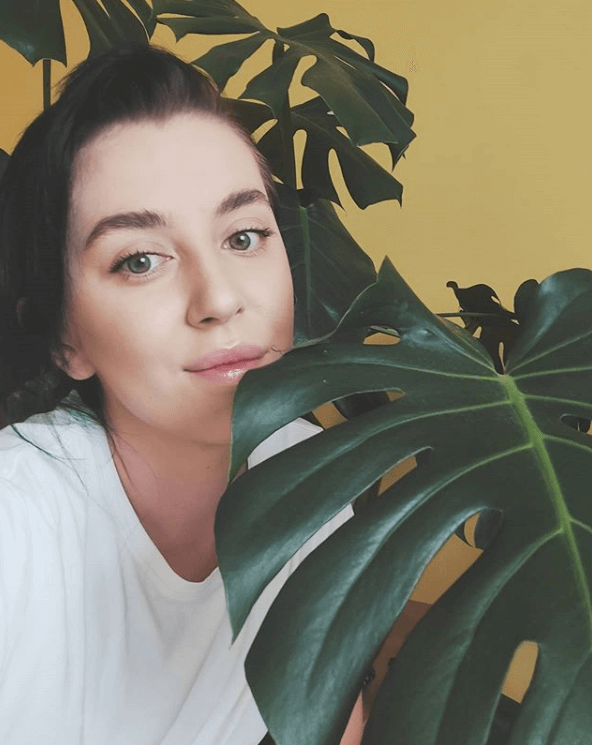
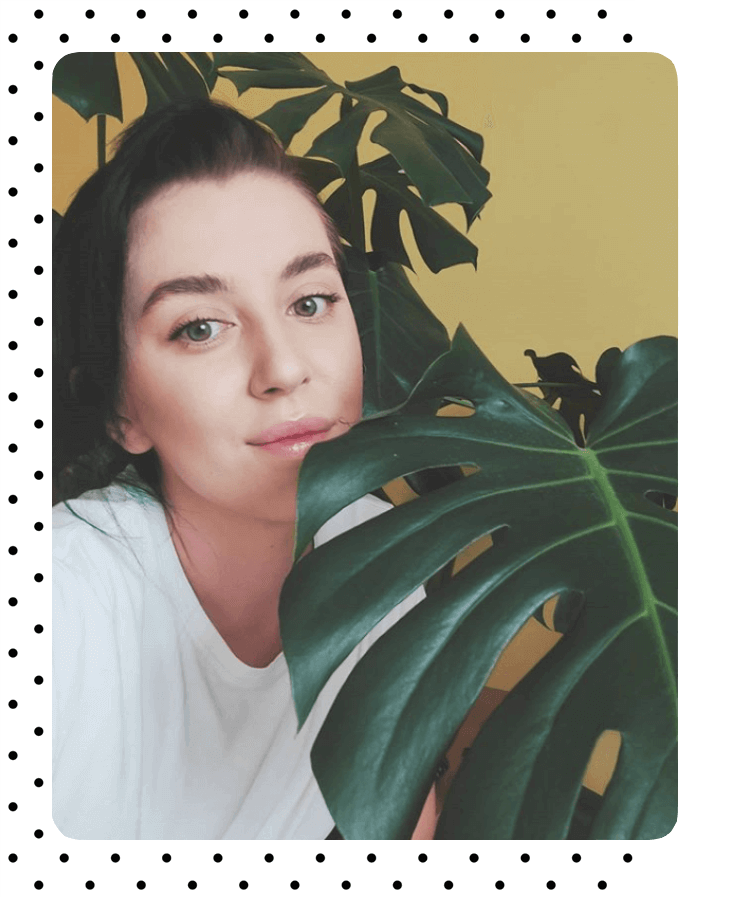
added new photo section and animations

diff --git a/index.html b/index.html
@@ -67,7 +67,7 @@
         <div class="about-photo" data-aos="fade-right">
             <img src="./assets/about_photo.png" alt="">
         </div>
-        <div class="first_wrapper" data-aos="fade-down">
+        <div class="first_wrapper" data-aos="zoom-in-up">
             <h1>Cześć, tu Dominika!</h1>
             <p>Skończyłam kurs korekty tekstu i to dopiero początek mojej przygody. Cały czas się uczę, sprawdzam i
                 stawiam
@@ -84,6 +84,14 @@
             <h2>Dominika Napora</h2>
         </div>
     </section>
+
+
+    <!-- Mobile photo section -->
+
+    <div class="mobile_photo" data-aos="zoom-in">
+        <img src="assets/about_photo.png">
+    </div>
+
 
     <!-- Contact -->
 

diff --git a/style.css b/style.css
@@ -80,6 +80,11 @@ html{
 
 }
 
+.mobile_photo img {
+    display: none;
+
+}
+
 @media (min-width: 501px) and (max-width: 990px) {
 
 .main-section-wrapper {
@@ -119,6 +124,14 @@ html{
     display: none;
 }
 
+.mobile_photo img {
+    display: block;
+    margin: 100px auto;
+    width: 90%;
+    padding: 20px;
+    border-radius: 15px;
+}
+
 }
 
 @media (max-width: 500px) {
@@ -147,6 +160,17 @@ html{
     justify-content: center;
     padding-top: 150px;
     /* width: 500px; */
+}
+
+
+.mobile_photo img {
+    display: block;
+    position: relative;
+    margin: 0 auto 100px;
+    width: 90%;
+    padding: 20px;
+    border-radius: 15px;
+    bottom: 50px;
 }
 
 }

diff --git a/about.css b/about.css
@@ -48,15 +48,16 @@ html{
     font-weight: 700;
 }
 
-
-
 @media (max-width: 990px) {
 
 .about_section_wrapper {
     padding-top: 100px;
     /* width: 90%; */
     margin: 10px auto;
-
+    display: flex;
+    flex-direction: column;
+    align-items: center;
+    justify-content: center;
 }
 
 .first_wrapper {
@@ -88,6 +89,7 @@ html{
 .about-photo img{
     display: none;
 }
+
 
 .first_wrapper h1{
     font-size: 2.8rem;
